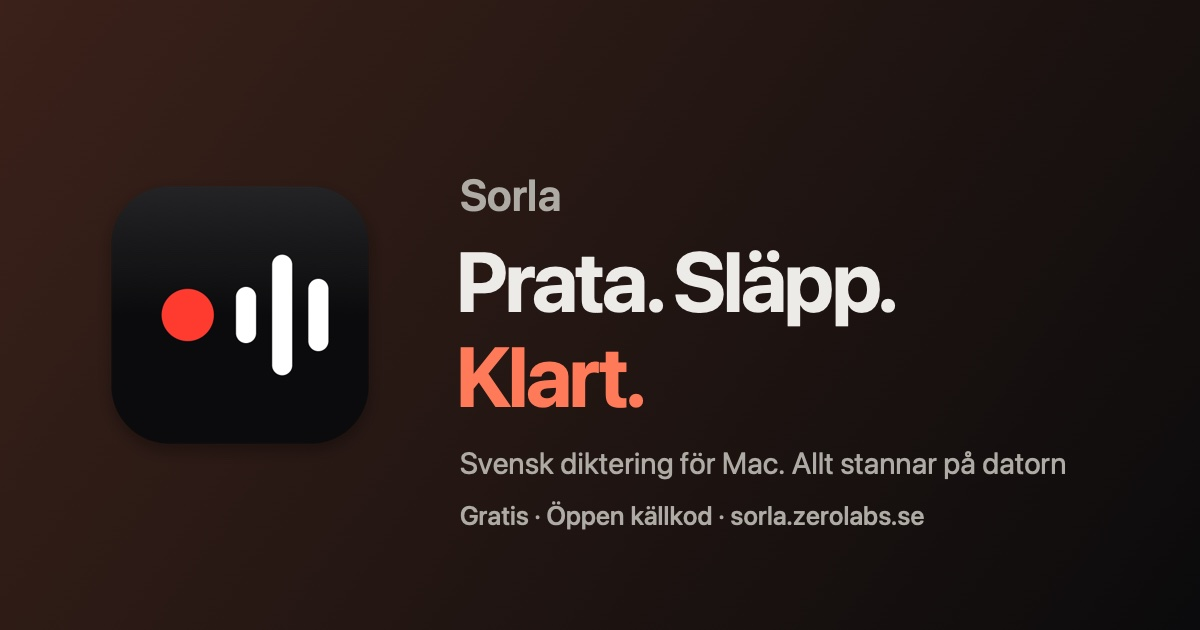
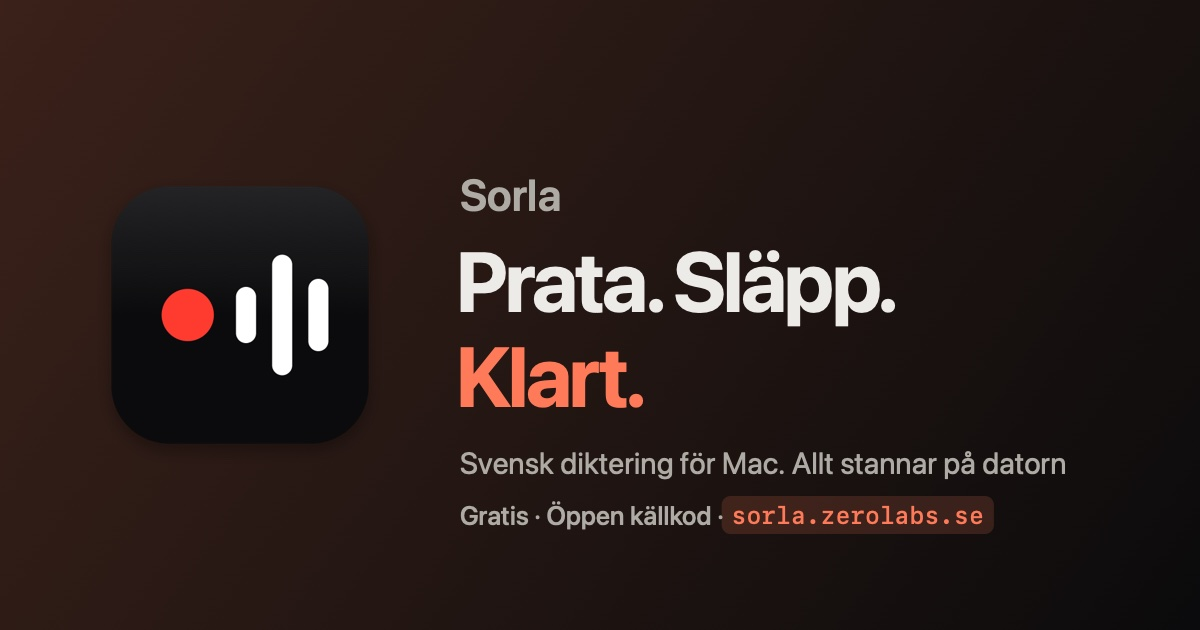
Website: set the address on the preview image in monospace on an accent chip

Changed region(s): [[0.5242, 0.7841, 0.8325, 0.8746]]

diff --git a/Scripts/make-og-image.swift b/Scripts/make-og-image.swift
@@ -32,7 +32,15 @@ text("Sorla", size: 44, weight: .semibold, color: muted, at: NSPoint(x: 460, y: 
 text("Prata. Släpp.", size: 84, weight: .bold, color: ink, at: NSPoint(x: 456, y: 300), kern: -2.5)
 text("Klart.", size: 84, weight: .bold, color: accent, at: NSPoint(x: 456, y: 205), kern: -2.5)
 text("Svensk diktering för Mac. Allt stannar på datorn", size: 30, weight: .regular, color: muted, at: NSPoint(x: 460, y: 150))
-text("Gratis · Öppen källkod · sorla.zerolabs.se", size: 26, weight: .medium, color: muted, at: NSPoint(x: 460, y: 100))
+let lead = NSAttributedString(string: "Gratis · Öppen källkod · ", attributes: [.font: NSFont.systemFont(ofSize: 26, weight: .medium), .foregroundColor: muted])
+lead.draw(at: NSPoint(x: 460, y: 100))
+// The address is set like on the website: system monospace on a chip tinted with the accent.
+let address = NSAttributedString(string: "sorla.zerolabs.se", attributes: [.font: NSFont.monospacedSystemFont(ofSize: 24, weight: .medium), .foregroundColor: accent])
+let chipOrigin = NSPoint(x: 460 + lead.size().width + 2, y: 100)
+let chip = NSRect(x: chipOrigin.x - 10, y: chipOrigin.y - 4, width: address.size().width + 20, height: address.size().height + 10)
+accent.withAlphaComponent(0.16).setFill()
+NSBezierPath(roundedRect: chip, xRadius: 9, yRadius: 9).fill()
+address.draw(at: NSPoint(x: chipOrigin.x, y: chipOrigin.y + 1))
 
 NSGraphicsContext.restoreGraphicsState()
 let output = root.appendingPathComponent("site/images/og.jpg")

diff --git a/site/index.html b/site/index.html
@@ -11,7 +11,7 @@
 <meta property="og:url" content="https://sorla.zerolabs.se/">
 <meta property="og:title" content="Prata. Släpp. Klart. Svensk diktering för Mac. Allt stannar på datorn.">
 <meta property="og:description" content="Håll in en tangent, prata svenska och släpp. Texten hamnar där markören står, i vilken app som helst. Gratis, öppen källkod och helt lokalt på din Mac.">
-<meta property="og:image" content="https://sorla.zerolabs.se/images/og.jpg?v=2">
+<meta property="og:image" content="https://sorla.zerolabs.se/images/og.jpg?v=3">
 <meta property="og:image:type" content="image/jpeg">
 <meta property="og:image:width" content="1200">
 <meta property="og:image:height" content="630">

diff --git a/site/manifesto.html b/site/manifesto.html
@@ -11,7 +11,7 @@
 <meta property="og:url" content="https://sorla.zerolabs.se/manifesto">
 <meta property="og:title" content="Sorlas manifest – Tal blir text. Inget mer.">
 <meta property="og:description" content="Principerna som varje beslut om Sorla mäts mot: ett syfte, lokal behandling, snabbt till användbar text och användarens egna ord.">
-<meta property="og:image" content="https://sorla.zerolabs.se/images/og.jpg?v=2">
+<meta property="og:image" content="https://sorla.zerolabs.se/images/og.jpg?v=3">
 <meta property="og:image:type" content="image/jpeg">
 <meta property="og:image:width" content="1200">
 <meta property="og:image:height" content="630">

diff --git a/site/support.html b/site/support.html
@@ -11,7 +11,7 @@
 <meta property="og:url" content="https://sorla.zerolabs.se/support">
 <meta property="og:title" content="Hjälp – Sorla">
 <meta property="og:description" content="Så öppnar du Sorla första gången, ger behörigheter och kommer igång med svensk diktering på din Mac.">
-<meta property="og:image" content="https://sorla.zerolabs.se/images/og.jpg?v=2">
+<meta property="og:image" content="https://sorla.zerolabs.se/images/og.jpg?v=3">
 <meta property="og:image:type" content="image/jpeg">
 <meta property="og:image:width" content="1200">
 <meta property="og:image:height" content="630">

diff --git a/site/privacy.html b/site/privacy.html
@@ -11,7 +11,7 @@
 <meta property="og:url" content="https://sorla.zerolabs.se/privacy">
 <meta property="og:title" content="Integritet – Sorla">
 <meta property="og:description" content="Sorla samlar inte in några uppgifter om dig. Rösten stannar på din Mac.">
-<meta property="og:image" content="https://sorla.zerolabs.se/images/og.jpg?v=2">
+<meta property="og:image" content="https://sorla.zerolabs.se/images/og.jpg?v=3">
 <meta property="og:image:type" content="image/jpeg">
 <meta property="og:image:width" content="1200">
 <meta property="og:image:height" content="630">
